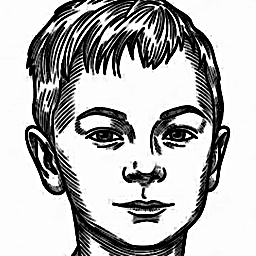
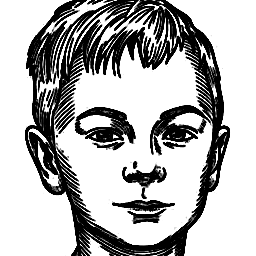
TE-73: Kinder-Avatare mit transparentem Hintergrund, Konturen im Dark Theme weiß, ohne farbigen Ring, Version 2.67.1

diff --git a/src/components/ChildAvatar.tsx b/src/components/ChildAvatar.tsx
@@ -6,6 +6,7 @@
 import React from 'react';
 import { View, Text, Image, ImageSourcePropType } from 'react-native';
 import type { ChildConfig } from '../services/family';
+import { useTheme } from '../utils/theme';
 
 const AVATARS: Record<string, ImageSourcePropType> = {
   lenny: require('../../assets/avatars/lenny.png'),
@@ -24,15 +25,16 @@ interface Props {
 }
 
 export default function ChildAvatar({ child, size = 28 }: Props) {
+  const { colors } = useTheme();
   const src = childAvatarSource(child.name);
-  const ring = Math.max(2, Math.round(size / 18));
   const circle = { width: size, height: size, borderRadius: size / 2 };
   if (src) {
     return (
       <Image
         source={src}
         accessibilityLabel={child.name}
-        style={[circle, { borderWidth: ring, borderColor: child.color, backgroundColor: '#fff' }]}
+        // TE-73: PNGs sind transparente Strichzeichnungen; Linien in Textfarbe (Dark Theme = weiß).
+        style={[circle, { tintColor: colors.text }]}
       />
     );
   }
